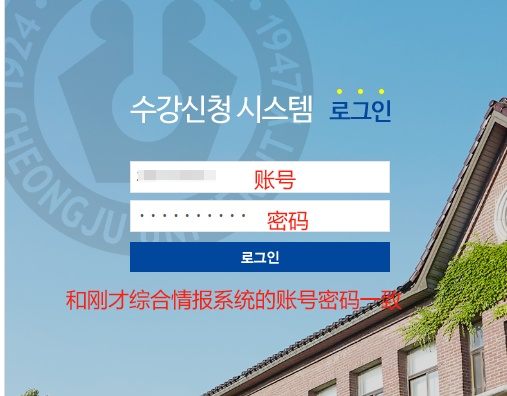
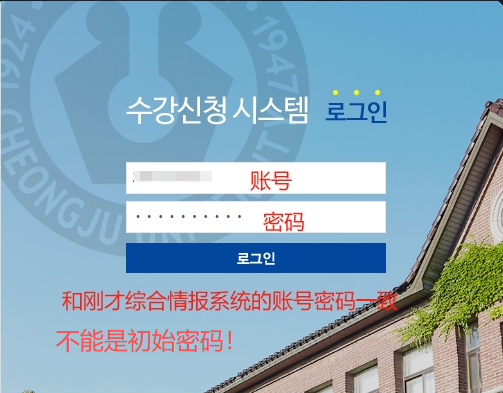
Replace course login guide image

diff --git a/course-registration.html b/course-registration.html
@@ -298,7 +298,7 @@
               <div class="course-image-grid">
                 <figure>
                   <button class="course-image-button" type="button">
-                    <img src="sugang_main.png" alt="清州大学选课系统登录页面" />
+                    <img src="sugang_main.png?v=20260818-2" alt="清州大学选课系统登录页面" />
                   </button>
                   <figcaption>选课系统登录页</figcaption>
                 </figure>
